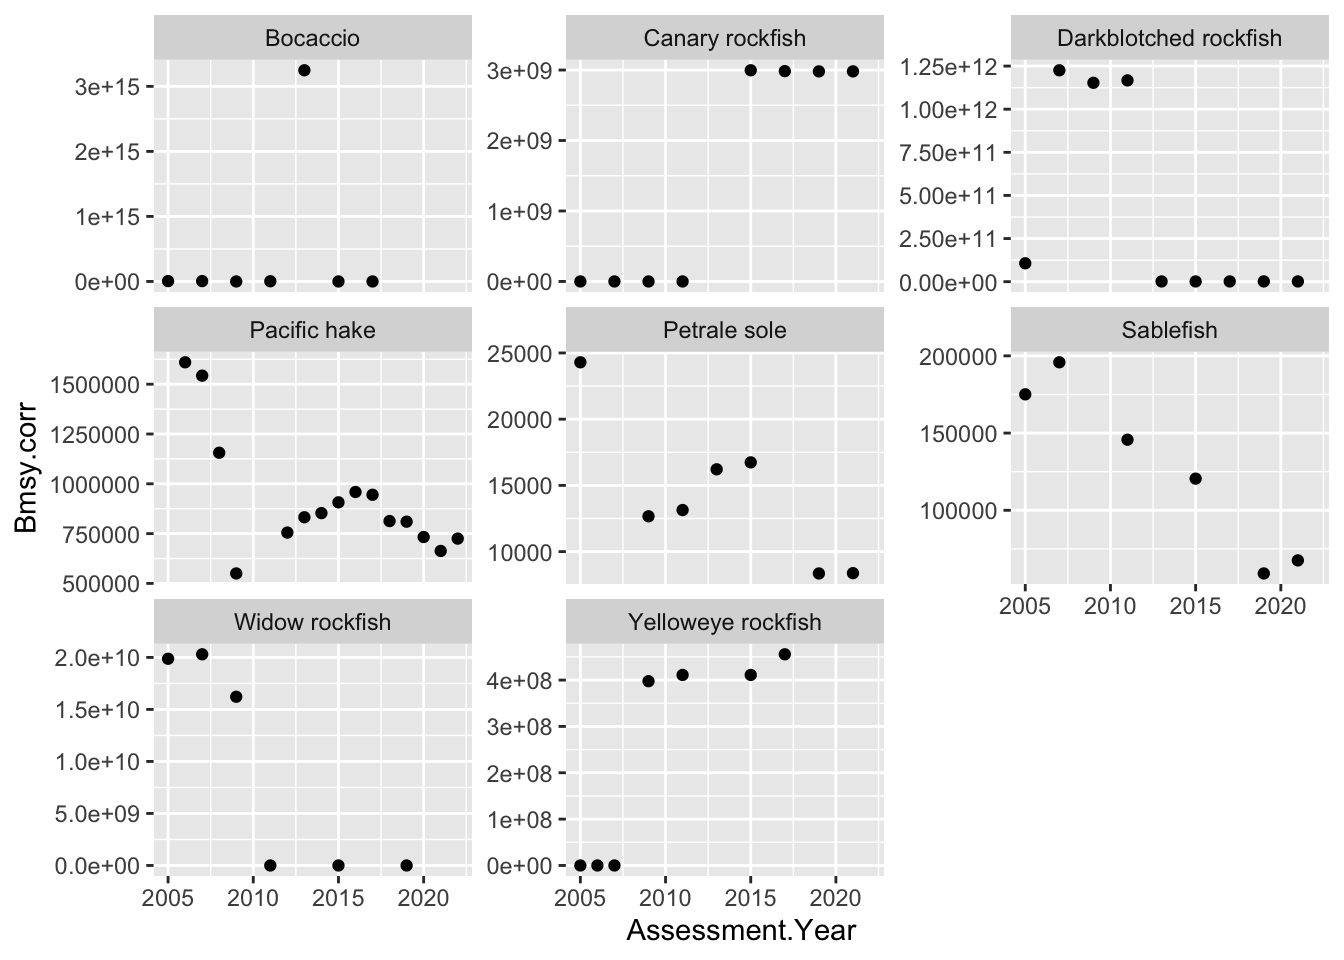
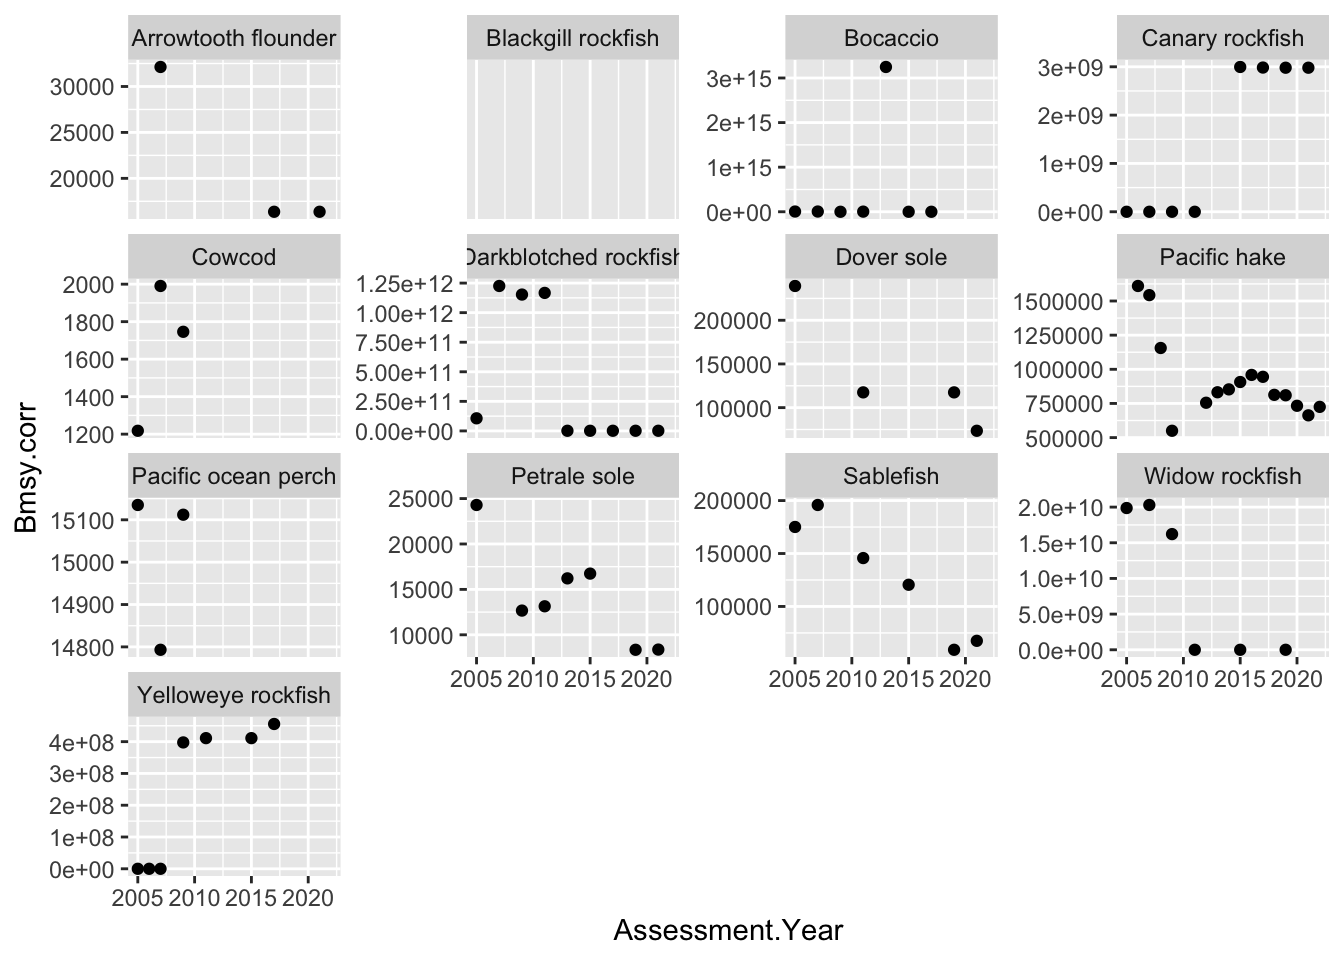
add more species, reformat Bzero plot

diff --git a/Explore_Bzero.html b/Explore_Bzero.html
@@ -101,8 +101,8 @@ pre > code.sourceCode > span > a:first-child::before { text-decoration: underlin
 </section>
 <section id="explore-the-data" class="level2">
 <h2 class="anchored" data-anchor-id="explore-the-data">Explore the data</h2>
-<p>I filtered the data to just the Groundfish FMP, and did some data wrangling to get the units of biomass to be comparable across the time series, where possible, and filtered to stocks that have at least 5 asssessments over the 17 year period.</p>
-<p>There are 8 stocks that have that level of monitoring.</p>
+<p>I filtered the data to just the Groundfish FMP, and did some data wrangling to get the units of biomass to be comparable across the time series, where possible, and filtered to stocks that have at least 4 asssessments over the 17 year period.</p>
+<p>There are 13 stocks that have that level of monitoring.</p>
 <div class="cell">
 <div class="sourceCode cell-code" id="cb1"><pre class="sourceCode r code-with-copy"><code class="sourceCode r"><span id="cb1-1"><a href="#cb1-1" aria-hidden="true" tabindex="-1"></a>ref <span class="ot">&lt;-</span> <span class="fu">read.csv</span>(<span class="st">'data/Assessment_Summary_data_PFMC.csv'</span>, <span class="at">header=</span>T)</span>
 <span id="cb1-2"><a href="#cb1-2" aria-hidden="true" tabindex="-1"></a></span>
@@ -126,50 +126,60 @@ pre > code.sourceCode > span > a:first-child::before { text-decoration: underlin
 <span id="cb1-20"><a href="#cb1-20" aria-hidden="true" tabindex="-1"></a>  <span class="fu">group_by</span>(Stock.Name) <span class="sc">%&gt;%</span> </span>
 <span id="cb1-21"><a href="#cb1-21" aria-hidden="true" tabindex="-1"></a>  <span class="fu">select</span>(Stock.Name, Common.Name, Assessment.Year, Estimated.B, B.Unit, B.Basis, Bmsy, </span>
 <span id="cb1-22"><a href="#cb1-22" aria-hidden="true" tabindex="-1"></a>         Bmsy.Basis, B.Bmsy, refpt) <span class="sc">%&gt;%</span> </span>
-<span id="cb1-23"><a href="#cb1-23" aria-hidden="true" tabindex="-1"></a>  <span class="fu">filter</span>(<span class="sc">!</span><span class="fu">is.na</span>(Bmsy) <span class="sc">&amp;</span> <span class="fu">length</span>(Bmsy)<span class="sc">&gt;</span><span class="dv">5</span>) <span class="sc">%&gt;%</span></span>
+<span id="cb1-23"><a href="#cb1-23" aria-hidden="true" tabindex="-1"></a>  <span class="fu">filter</span>(<span class="sc">!</span><span class="fu">is.na</span>(Bmsy) <span class="sc">&amp;</span> <span class="fu">length</span>(Bmsy)<span class="sc">&gt;</span><span class="dv">3</span>) <span class="sc">%&gt;%</span></span>
 <span id="cb1-24"><a href="#cb1-24" aria-hidden="true" tabindex="-1"></a>    <span class="fu">mutate</span>(<span class="at">Bmsy.corr =</span> <span class="fu">case_when</span>(</span>
 <span id="cb1-25"><a href="#cb1-25" aria-hidden="true" tabindex="-1"></a>      B.Unit <span class="sc">==</span> <span class="st">"10^8 eggs"</span> <span class="sc">~</span> Bmsy<span class="sc">*</span><span class="dv">10</span><span class="sc">^</span><span class="dv">8</span>,</span>
 <span id="cb1-26"><a href="#cb1-26" aria-hidden="true" tabindex="-1"></a>      B.Unit <span class="sc">==</span> <span class="st">"billion eggs"</span> <span class="sc">~</span> Bmsy<span class="sc">*</span><span class="dv">10</span><span class="sc">^</span><span class="dv">9</span>,</span>
-<span id="cb1-27"><a href="#cb1-27" aria-hidden="true" tabindex="-1"></a>       B.Unit <span class="sc">==</span> <span class="st">"trillion eggs"</span> <span class="sc">~</span> Bmsy<span class="sc">*</span><span class="dv">10</span><span class="sc">^</span><span class="dv">12</span>,</span>
-<span id="cb1-28"><a href="#cb1-28" aria-hidden="true" tabindex="-1"></a>       B.Unit <span class="sc">==</span> <span class="st">"trillion eggs</span><span class="sc">\n</span><span class="st">"</span> <span class="sc">~</span> Bmsy<span class="sc">*</span><span class="dv">10</span><span class="sc">^</span><span class="dv">12</span>,</span>
-<span id="cb1-29"><a href="#cb1-29" aria-hidden="true" tabindex="-1"></a>      B.Unit <span class="sc">==</span> <span class="st">"Eggs"</span> <span class="sc">~</span> Bmsy,</span>
-<span id="cb1-30"><a href="#cb1-30" aria-hidden="true" tabindex="-1"></a>      B.Unit <span class="sc">==</span> <span class="st">"larvae"</span> <span class="sc">~</span> Bmsy,</span>
-<span id="cb1-31"><a href="#cb1-31" aria-hidden="true" tabindex="-1"></a>       B.Unit <span class="sc">==</span> <span class="st">"million larvae"</span> <span class="sc">~</span> Bmsy<span class="sc">*</span><span class="dv">10</span><span class="sc">^</span><span class="dv">6</span>,</span>
-<span id="cb1-32"><a href="#cb1-32" aria-hidden="true" tabindex="-1"></a>      B.Unit <span class="sc">==</span> <span class="st">"million eggs"</span> <span class="sc">~</span> Bmsy<span class="sc">*</span><span class="dv">10</span><span class="sc">^</span><span class="dv">6</span>,</span>
-<span id="cb1-33"><a href="#cb1-33" aria-hidden="true" tabindex="-1"></a>      B.Unit <span class="sc">==</span> <span class="st">"Million eggs"</span> <span class="sc">~</span> Bmsy<span class="sc">*</span><span class="dv">10</span><span class="sc">^</span><span class="dv">6</span>,</span>
-<span id="cb1-34"><a href="#cb1-34" aria-hidden="true" tabindex="-1"></a>       B.Unit <span class="sc">==</span> <span class="st">"Million Eggs"</span> <span class="sc">~</span> Bmsy<span class="sc">*</span><span class="dv">10</span><span class="sc">^</span><span class="dv">6</span>,</span>
-<span id="cb1-35"><a href="#cb1-35" aria-hidden="true" tabindex="-1"></a>      B.Unit <span class="sc">==</span> <span class="st">"Metric Tons"</span> <span class="sc">~</span> Bmsy,</span>
-<span id="cb1-36"><a href="#cb1-36" aria-hidden="true" tabindex="-1"></a>       B.Unit <span class="sc">==</span> <span class="st">"mt"</span> <span class="sc">~</span> Bmsy,</span>
-<span id="cb1-37"><a href="#cb1-37" aria-hidden="true" tabindex="-1"></a>       B.Unit <span class="sc">==</span> <span class="st">"mt</span><span class="sc">\n</span><span class="st">"</span> <span class="sc">~</span> Bmsy,</span>
-<span id="cb1-38"><a href="#cb1-38" aria-hidden="true" tabindex="-1"></a>       B.Unit <span class="sc">==</span> <span class="st">"mt (female biomass only)"</span> <span class="sc">~</span> Bmsy<span class="sc">*</span><span class="dv">2</span>,</span>
-<span id="cb1-39"><a href="#cb1-39" aria-hidden="true" tabindex="-1"></a>      B.Unit <span class="sc">==</span> <span class="st">"mt (female mature biomass)"</span> <span class="sc">~</span> Bmsy<span class="sc">*</span><span class="dv">2</span>,</span>
-<span id="cb1-40"><a href="#cb1-40" aria-hidden="true" tabindex="-1"></a>      B.Unit <span class="sc">==</span> <span class="st">"mt (female mature)"</span> <span class="sc">~</span> Bmsy<span class="sc">*</span><span class="dv">2</span>,</span>
-<span id="cb1-41"><a href="#cb1-41" aria-hidden="true" tabindex="-1"></a>      B.Unit <span class="sc">==</span> <span class="st">"Million Metric Tons"</span> <span class="sc">~</span> Bmsy<span class="sc">*</span><span class="dv">10</span><span class="sc">^</span><span class="dv">6</span>,)) <span class="sc">%&gt;%</span> </span>
-<span id="cb1-42"><a href="#cb1-42" aria-hidden="true" tabindex="-1"></a>  <span class="fu">ungroup</span>()</span>
-<span id="cb1-43"><a href="#cb1-43" aria-hidden="true" tabindex="-1"></a>  </span>
-<span id="cb1-44"><a href="#cb1-44" aria-hidden="true" tabindex="-1"></a>refsum <span class="ot">&lt;-</span> ref2 <span class="sc">%&gt;%</span> </span>
-<span id="cb1-45"><a href="#cb1-45" aria-hidden="true" tabindex="-1"></a>  <span class="fu">group_by</span>(Stock.Name) <span class="sc">%&gt;%</span> </span>
-<span id="cb1-46"><a href="#cb1-46" aria-hidden="true" tabindex="-1"></a>  <span class="fu">summarize</span>(<span class="at">ct =</span> <span class="fu">n</span>()) <span class="sc">%&gt;%</span> </span>
-<span id="cb1-47"><a href="#cb1-47" aria-hidden="true" tabindex="-1"></a>  <span class="fu">ungroup</span>() <span class="sc">%&gt;%</span> </span>
-<span id="cb1-48"><a href="#cb1-48" aria-hidden="true" tabindex="-1"></a>  <span class="fu">arrange</span>(<span class="sc">-</span>ct)</span>
-<span id="cb1-49"><a href="#cb1-49" aria-hidden="true" tabindex="-1"></a><span class="fu">print</span>(refsum)</span></code><button title="Copy to Clipboard" class="code-copy-button"><i class="bi"></i></button></pre></div>
+<span id="cb1-27"><a href="#cb1-27" aria-hidden="true" tabindex="-1"></a>      B.Unit <span class="sc">==</span> <span class="st">"Billion eggs"</span> <span class="sc">~</span> Bmsy<span class="sc">*</span><span class="dv">10</span><span class="sc">^</span><span class="dv">9</span>,</span>
+<span id="cb1-28"><a href="#cb1-28" aria-hidden="true" tabindex="-1"></a>       B.Unit <span class="sc">==</span> <span class="st">"trillion eggs"</span> <span class="sc">~</span> Bmsy<span class="sc">*</span><span class="dv">10</span><span class="sc">^</span><span class="dv">12</span>,</span>
+<span id="cb1-29"><a href="#cb1-29" aria-hidden="true" tabindex="-1"></a>       B.Unit <span class="sc">==</span> <span class="st">"trillion eggs</span><span class="sc">\n</span><span class="st">"</span> <span class="sc">~</span> Bmsy<span class="sc">*</span><span class="dv">10</span><span class="sc">^</span><span class="dv">12</span>,</span>
+<span id="cb1-30"><a href="#cb1-30" aria-hidden="true" tabindex="-1"></a>      B.Unit <span class="sc">==</span> <span class="st">"Eggs"</span> <span class="sc">~</span> Bmsy,</span>
+<span id="cb1-31"><a href="#cb1-31" aria-hidden="true" tabindex="-1"></a>      B.Unit <span class="sc">==</span> <span class="st">"larvae"</span> <span class="sc">~</span> Bmsy,</span>
+<span id="cb1-32"><a href="#cb1-32" aria-hidden="true" tabindex="-1"></a>       B.Unit <span class="sc">==</span> <span class="st">"million larvae"</span> <span class="sc">~</span> Bmsy<span class="sc">*</span><span class="dv">10</span><span class="sc">^</span><span class="dv">6</span>,</span>
+<span id="cb1-33"><a href="#cb1-33" aria-hidden="true" tabindex="-1"></a>      B.Unit <span class="sc">==</span> <span class="st">"million eggs"</span> <span class="sc">~</span> Bmsy<span class="sc">*</span><span class="dv">10</span><span class="sc">^</span><span class="dv">6</span>,</span>
+<span id="cb1-34"><a href="#cb1-34" aria-hidden="true" tabindex="-1"></a>      B.Unit <span class="sc">==</span> <span class="st">"Million eggs"</span> <span class="sc">~</span> Bmsy<span class="sc">*</span><span class="dv">10</span><span class="sc">^</span><span class="dv">6</span>,</span>
+<span id="cb1-35"><a href="#cb1-35" aria-hidden="true" tabindex="-1"></a>       B.Unit <span class="sc">==</span> <span class="st">"Million Eggs"</span> <span class="sc">~</span> Bmsy<span class="sc">*</span><span class="dv">10</span><span class="sc">^</span><span class="dv">6</span>,</span>
+<span id="cb1-36"><a href="#cb1-36" aria-hidden="true" tabindex="-1"></a>      B.Unit <span class="sc">==</span> <span class="st">"Metric Tons"</span> <span class="sc">~</span> Bmsy,</span>
+<span id="cb1-37"><a href="#cb1-37" aria-hidden="true" tabindex="-1"></a>       B.Unit <span class="sc">==</span> <span class="st">"mt"</span> <span class="sc">~</span> Bmsy,</span>
+<span id="cb1-38"><a href="#cb1-38" aria-hidden="true" tabindex="-1"></a>       B.Unit <span class="sc">==</span> <span class="st">"mt</span><span class="sc">\n</span><span class="st">"</span> <span class="sc">~</span> Bmsy,</span>
+<span id="cb1-39"><a href="#cb1-39" aria-hidden="true" tabindex="-1"></a>       B.Unit <span class="sc">==</span> <span class="st">"mt (female biomass only)"</span> <span class="sc">~</span> Bmsy<span class="sc">*</span><span class="dv">2</span>,</span>
+<span id="cb1-40"><a href="#cb1-40" aria-hidden="true" tabindex="-1"></a>      B.Unit <span class="sc">==</span> <span class="st">"mt (female mature biomass)"</span> <span class="sc">~</span> Bmsy<span class="sc">*</span><span class="dv">2</span>,</span>
+<span id="cb1-41"><a href="#cb1-41" aria-hidden="true" tabindex="-1"></a>      B.Unit <span class="sc">==</span> <span class="st">"mt (female mature)"</span> <span class="sc">~</span> Bmsy<span class="sc">*</span><span class="dv">2</span>,</span>
+<span id="cb1-42"><a href="#cb1-42" aria-hidden="true" tabindex="-1"></a>      B.Unit <span class="sc">==</span> <span class="st">"Million Metric Tons"</span> <span class="sc">~</span> Bmsy<span class="sc">*</span><span class="dv">10</span><span class="sc">^</span><span class="dv">6</span>,)) <span class="sc">%&gt;%</span> </span>
+<span id="cb1-43"><a href="#cb1-43" aria-hidden="true" tabindex="-1"></a>  <span class="fu">ungroup</span>()</span>
+<span id="cb1-44"><a href="#cb1-44" aria-hidden="true" tabindex="-1"></a>  </span>
+<span id="cb1-45"><a href="#cb1-45" aria-hidden="true" tabindex="-1"></a>refsum <span class="ot">&lt;-</span> ref2 <span class="sc">%&gt;%</span> </span>
+<span id="cb1-46"><a href="#cb1-46" aria-hidden="true" tabindex="-1"></a>  <span class="fu">group_by</span>(Stock.Name) <span class="sc">%&gt;%</span> </span>
+<span id="cb1-47"><a href="#cb1-47" aria-hidden="true" tabindex="-1"></a>  <span class="fu">summarize</span>(<span class="at">ct =</span> <span class="fu">n</span>()) <span class="sc">%&gt;%</span> </span>
+<span id="cb1-48"><a href="#cb1-48" aria-hidden="true" tabindex="-1"></a>  <span class="fu">ungroup</span>() <span class="sc">%&gt;%</span> </span>
+<span id="cb1-49"><a href="#cb1-49" aria-hidden="true" tabindex="-1"></a>  <span class="fu">arrange</span>(<span class="sc">-</span>ct)</span>
+<span id="cb1-50"><a href="#cb1-50" aria-hidden="true" tabindex="-1"></a><span class="fu">print</span>(refsum)</span></code><button title="Copy to Clipboard" class="code-copy-button"><i class="bi"></i></button></pre></div>
 <div class="cell-output cell-output-stdout">
-<pre><code># A tibble: 8 × 2
-  Stock.Name                               ct
-  &lt;chr&gt;                                 &lt;int&gt;
-1 Pacific hake - Pacific Coast             15
-2 Darkblotched rockfish - Pacific Coast     9
-3 Canary rockfish - Pacific Coast           8
-4 Bocaccio - Southern Pacific Coast         7
-5 Petrale sole - Pacific Coast              7
-6 Yelloweye rockfish - Pacific Coast        7
-7 Sablefish - Pacific Coast                 6
-8 Widow rockfish - Pacific Coast            6</code></pre>
+<pre><code># A tibble: 13 × 2
+   Stock.Name                                  ct
+   &lt;chr&gt;                                    &lt;int&gt;
+ 1 Pacific hake - Pacific Coast                15
+ 2 Darkblotched rockfish - Pacific Coast        9
+ 3 Canary rockfish - Pacific Coast              8
+ 4 Bocaccio - Southern Pacific Coast            7
+ 5 Petrale sole - Pacific Coast                 7
+ 6 Yelloweye rockfish - Pacific Coast           7
+ 7 Sablefish - Pacific Coast                    6
+ 8 Widow rockfish - Pacific Coast               6
+ 9 Pacific ocean perch - Pacific Coast          5
+10 Arrowtooth flounder - Pacific Coast          4
+11 Blackgill rockfish - Southern California     4
+12 Cowcod - Southern California                 4
+13 Dover sole - Pacific Coast                   4</code></pre>
 </div>
 </div>
 <p>There are a couple of things we could plot to look at productivity/carrying capacity. Here I am choosing Bmsy because unless there is a change in policy about the reference point (e.g., from b40 to b25 for flatfish), it should have a consistent interpretation across the time series (like Bzero).</p>
-<p>When I plot all the species, there are some inconsistencies that are coming from changes in the units of biomass for some of the rockfish species, e.g., changing from spawning biomass to eggs to larvae as the measure of spawning output. This might be able to be standardized with a big more digging into the assessments, or at least the Bzero might be able to be backed out.</p>
+<p>When I plot all the species, there are some inconsistencies that are coming from changes in the units of biomass for some of the rockfish species, e.g., changing from spawning biomass to eggs to larvae as the measure of spawning output. This might be able to be standardized with a bit more digging into the assessments, or at least the Bzero might be able to be backed out…</p>
 <div class="cell">
+<div class="cell-output cell-output-stderr">
+<pre><code>Warning: Removed 8 rows containing missing values or values outside the scale range
+(`geom_point()`).</code></pre>
+</div>
 <div class="cell-output-display">
 <p><img src="Explore_Bzero_files/figure-html/unnamed-chunk-3-1.png" class="img-fluid" width="672"></p>
 </div>
@@ -180,6 +190,67 @@ pre > code.sourceCode > span > a:first-child::before { text-decoration: underlin
 <p><img src="Explore_Bzero_files/figure-html/unnamed-chunk-4-1.png" class="img-fluid" width="672"></p>
 </div>
 </div>
+<p>Here we want to create the HCR plot for Hake, where the x axis will be biomass (not relative to unfished), and the target fishing mortality rate in uncorrected terms.</p>
+<div class="cell">
+<div class="sourceCode cell-code" id="cb4"><pre class="sourceCode r code-with-copy"><code class="sourceCode r"><span id="cb4-1"><a href="#cb4-1" aria-hidden="true" tabindex="-1"></a>r2<span class="ot">&lt;-</span> ref2 <span class="sc">%&gt;%</span> </span>
+<span id="cb4-2"><a href="#cb4-2" aria-hidden="true" tabindex="-1"></a>  dplyr<span class="sc">::</span><span class="fu">filter</span>(Common.Name <span class="sc">%in%</span> <span class="fu">c</span>(<span class="st">"Bocaccio"</span>))</span>
+<span id="cb4-3"><a href="#cb4-3" aria-hidden="true" tabindex="-1"></a>r2</span></code><button title="Copy to Clipboard" class="code-copy-button"><i class="bi"></i></button></pre></div>
+<div class="cell-output cell-output-stdout">
+<pre><code># A tibble: 7 × 11
+  Stock.Name       Common.Name Assessment.Year Estimated.B B.Unit B.Basis   Bmsy
+  &lt;chr&gt;            &lt;chr&gt;                 &lt;int&gt;       &lt;dbl&gt; &lt;chr&gt;  &lt;chr&gt;    &lt;dbl&gt;
+1 Bocaccio - Sout… Bocaccio               2005     1430    "bill… Female… 5.36e3
+2 Bocaccio - Sout… Bocaccio               2007     1727    "bill… Female… 5.43e3
+3 Bocaccio - Sout… Bocaccio               2009  2209900    "larv… Female… 3.14e6
+4 Bocaccio - Sout… Bocaccio               2011        2.03 "tril… Female… 3.12e0
+5 Bocaccio - Sout… Bocaccio               2013     2551.   "tril… Female… 3.25e3
+6 Bocaccio - Sout… Bocaccio               2015     2607    "mill… Female… 2.84e3
+7 Bocaccio - Sout… Bocaccio               2017     3603    "mill… Female… 2.96e3
+# ℹ 4 more variables: Bmsy.Basis &lt;chr&gt;, B.Bmsy &lt;dbl&gt;, refpt &lt;chr&gt;,
+#   Bmsy.corr &lt;dbl&gt;</code></pre>
+</div>
+</div>
+<p>Bocaccio switches between eggs and larvae for reproductive output</p>
+<div class="cell">
+<div class="sourceCode cell-code" id="cb6"><pre class="sourceCode r code-with-copy"><code class="sourceCode r"><span id="cb6-1"><a href="#cb6-1" aria-hidden="true" tabindex="-1"></a>r2<span class="ot">&lt;-</span> ref2 <span class="sc">%&gt;%</span> </span>
+<span id="cb6-2"><a href="#cb6-2" aria-hidden="true" tabindex="-1"></a>  dplyr<span class="sc">::</span><span class="fu">filter</span>(Common.Name <span class="sc">%in%</span> <span class="fu">c</span>(<span class="st">"Darkblotched rockfish"</span>))</span>
+<span id="cb6-3"><a href="#cb6-3" aria-hidden="true" tabindex="-1"></a>r2</span></code><button title="Copy to Clipboard" class="code-copy-button"><i class="bi"></i></button></pre></div>
+<div class="cell-output cell-output-stdout">
+<pre><code># A tibble: 9 × 11
+  Stock.Name       Common.Name Assessment.Year Estimated.B B.Unit B.Basis   Bmsy
+  &lt;chr&gt;            &lt;chr&gt;                 &lt;int&gt;       &lt;dbl&gt; &lt;chr&gt;  &lt;chr&gt;    &lt;dbl&gt;
+1 Darkblotched ro… Darkblotch…            2005     4.45e+4 milli… Female… 1.07e5
+2 Darkblotched ro… Darkblotch…            2007     6.85e+3 10^8 … Female… 1.23e4
+3 Darkblotched ro… Darkblotch…            2009     7.94e-1 trill… Female… 1.15e0
+4 Darkblotched ro… Darkblotch…            2011     8.81e-1 trill… Female… 1.17e0
+5 Darkblotched ro… Darkblotch…            2013     1.21e+3 milli… Female… 1.34e3
+6 Darkblotched ro… Darkblotch…            2015     1.26e+3 milli… Female… 1.28e3
+7 Darkblotched ro… Darkblotch…            2017     1.42e+3 milli… Female… 1.42e3
+8 Darkblotched ro… Darkblotch…            2019     1.56e+9 Eggs   Female… 1.42e9
+9 Darkblotched ro… Darkblotch…            2021     1.76e+9 Eggs   Female… 1.42e9
+# ℹ 4 more variables: Bmsy.Basis &lt;chr&gt;, B.Bmsy &lt;dbl&gt;, refpt &lt;chr&gt;,
+#   Bmsy.corr &lt;dbl&gt;</code></pre>
+</div>
+</div>
+<p>darkblotched seems ok but units are in eggs not mt like hake/sbalefish/petrales</p>
+<div class="cell">
+<div class="sourceCode cell-code" id="cb8"><pre class="sourceCode r code-with-copy"><code class="sourceCode r"><span id="cb8-1"><a href="#cb8-1" aria-hidden="true" tabindex="-1"></a>r2<span class="ot">&lt;-</span> ref2 <span class="sc">%&gt;%</span> </span>
+<span id="cb8-2"><a href="#cb8-2" aria-hidden="true" tabindex="-1"></a>  dplyr<span class="sc">::</span><span class="fu">filter</span>(Common.Name <span class="sc">%in%</span> <span class="fu">c</span>(<span class="st">"Pacific ocean perch"</span>))</span>
+<span id="cb8-3"><a href="#cb8-3" aria-hidden="true" tabindex="-1"></a>r2</span></code><button title="Copy to Clipboard" class="code-copy-button"><i class="bi"></i></button></pre></div>
+<div class="cell-output cell-output-stdout">
+<pre><code># A tibble: 5 × 11
+  Stock.Name      Common.Name Assessment.Year Estimated.B B.Unit B.Basis    Bmsy
+  &lt;chr&gt;           &lt;chr&gt;                 &lt;int&gt;       &lt;dbl&gt; &lt;chr&gt;  &lt;chr&gt;     &lt;dbl&gt;
+1 Pacific ocean … Pacific oc…            2005     8.85e 3 mt     Spawni… 1.51e 4
+2 Pacific ocean … Pacific oc…            2007     1.02e 4 mt     Spawni… 1.48e 4
+3 Pacific ocean … Pacific oc…            2009     1.08e 4 mt     Spawni… 1.51e 4
+4 Pacific ocean … Pacific oc…            2011     1.25e12 eggs   Female… 2.62e12
+5 Pacific ocean … Pacific oc…            2017     5.28e 3 milli… Female… 2.76e 3
+# ℹ 4 more variables: Bmsy.Basis &lt;chr&gt;, B.Bmsy &lt;dbl&gt;, refpt &lt;chr&gt;,
+#   Bmsy.corr &lt;dbl&gt;</code></pre>
+</div>
+</div>
+<p>Need to look up if there are ways to convert eggs to mt biomass - spawning put so we can compare better across species. most of the time series change between one to the other part way through so makes it difficult to know. ask kelli or aaron or kiva.</p>
 </section>
 
 </main>
